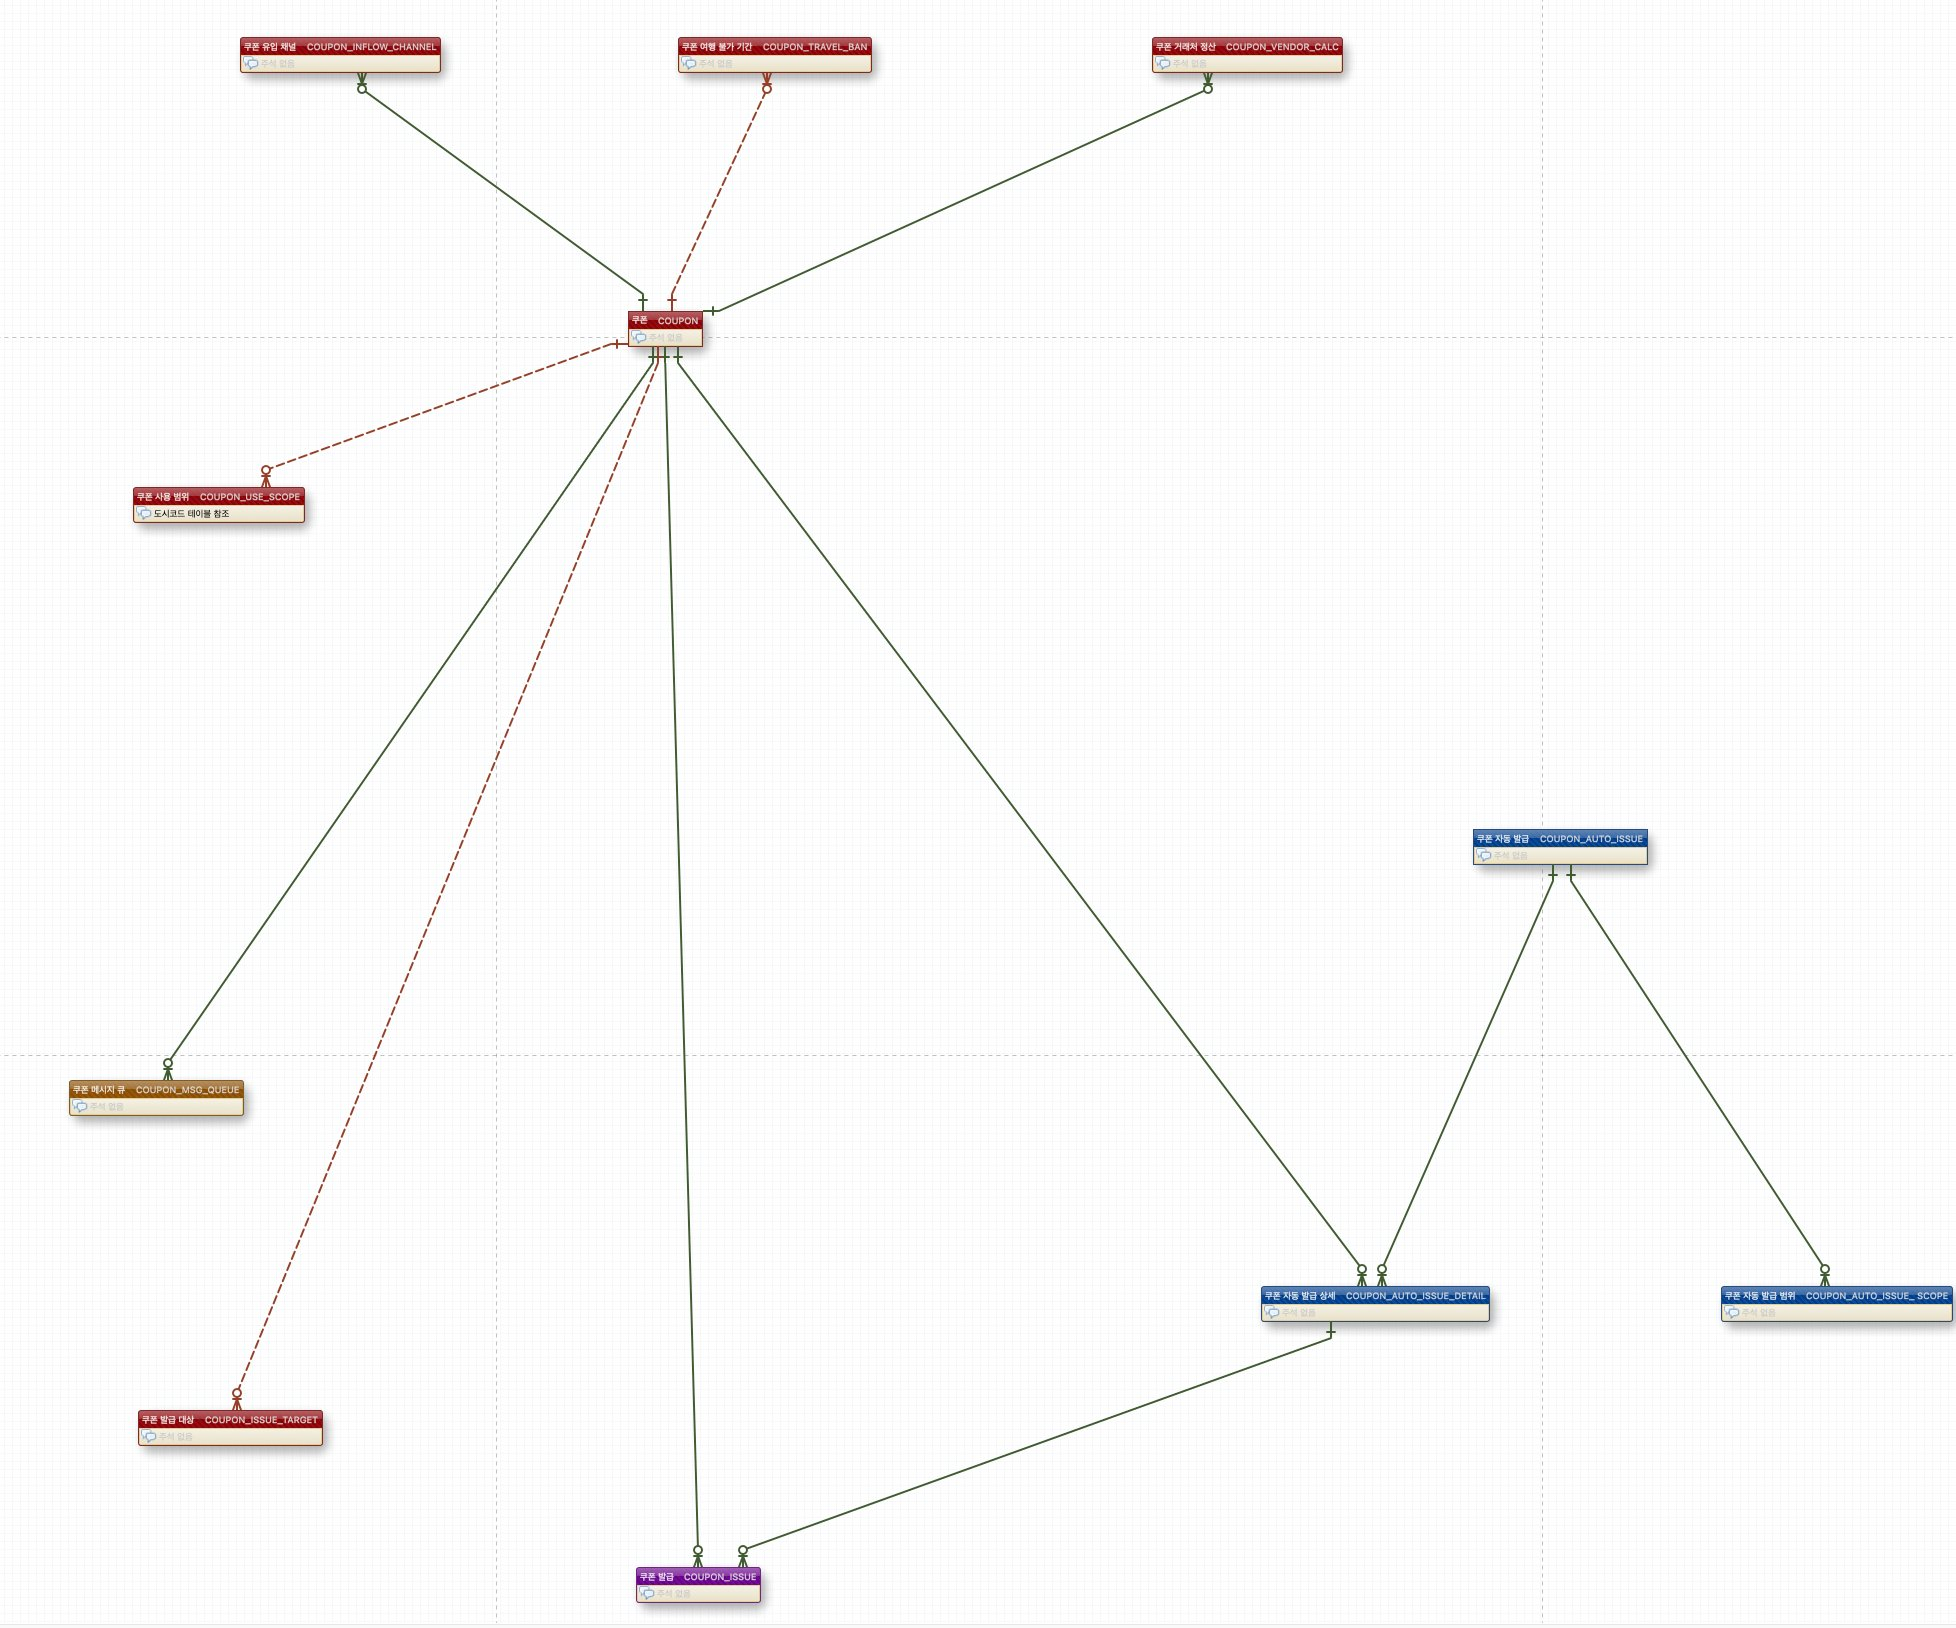
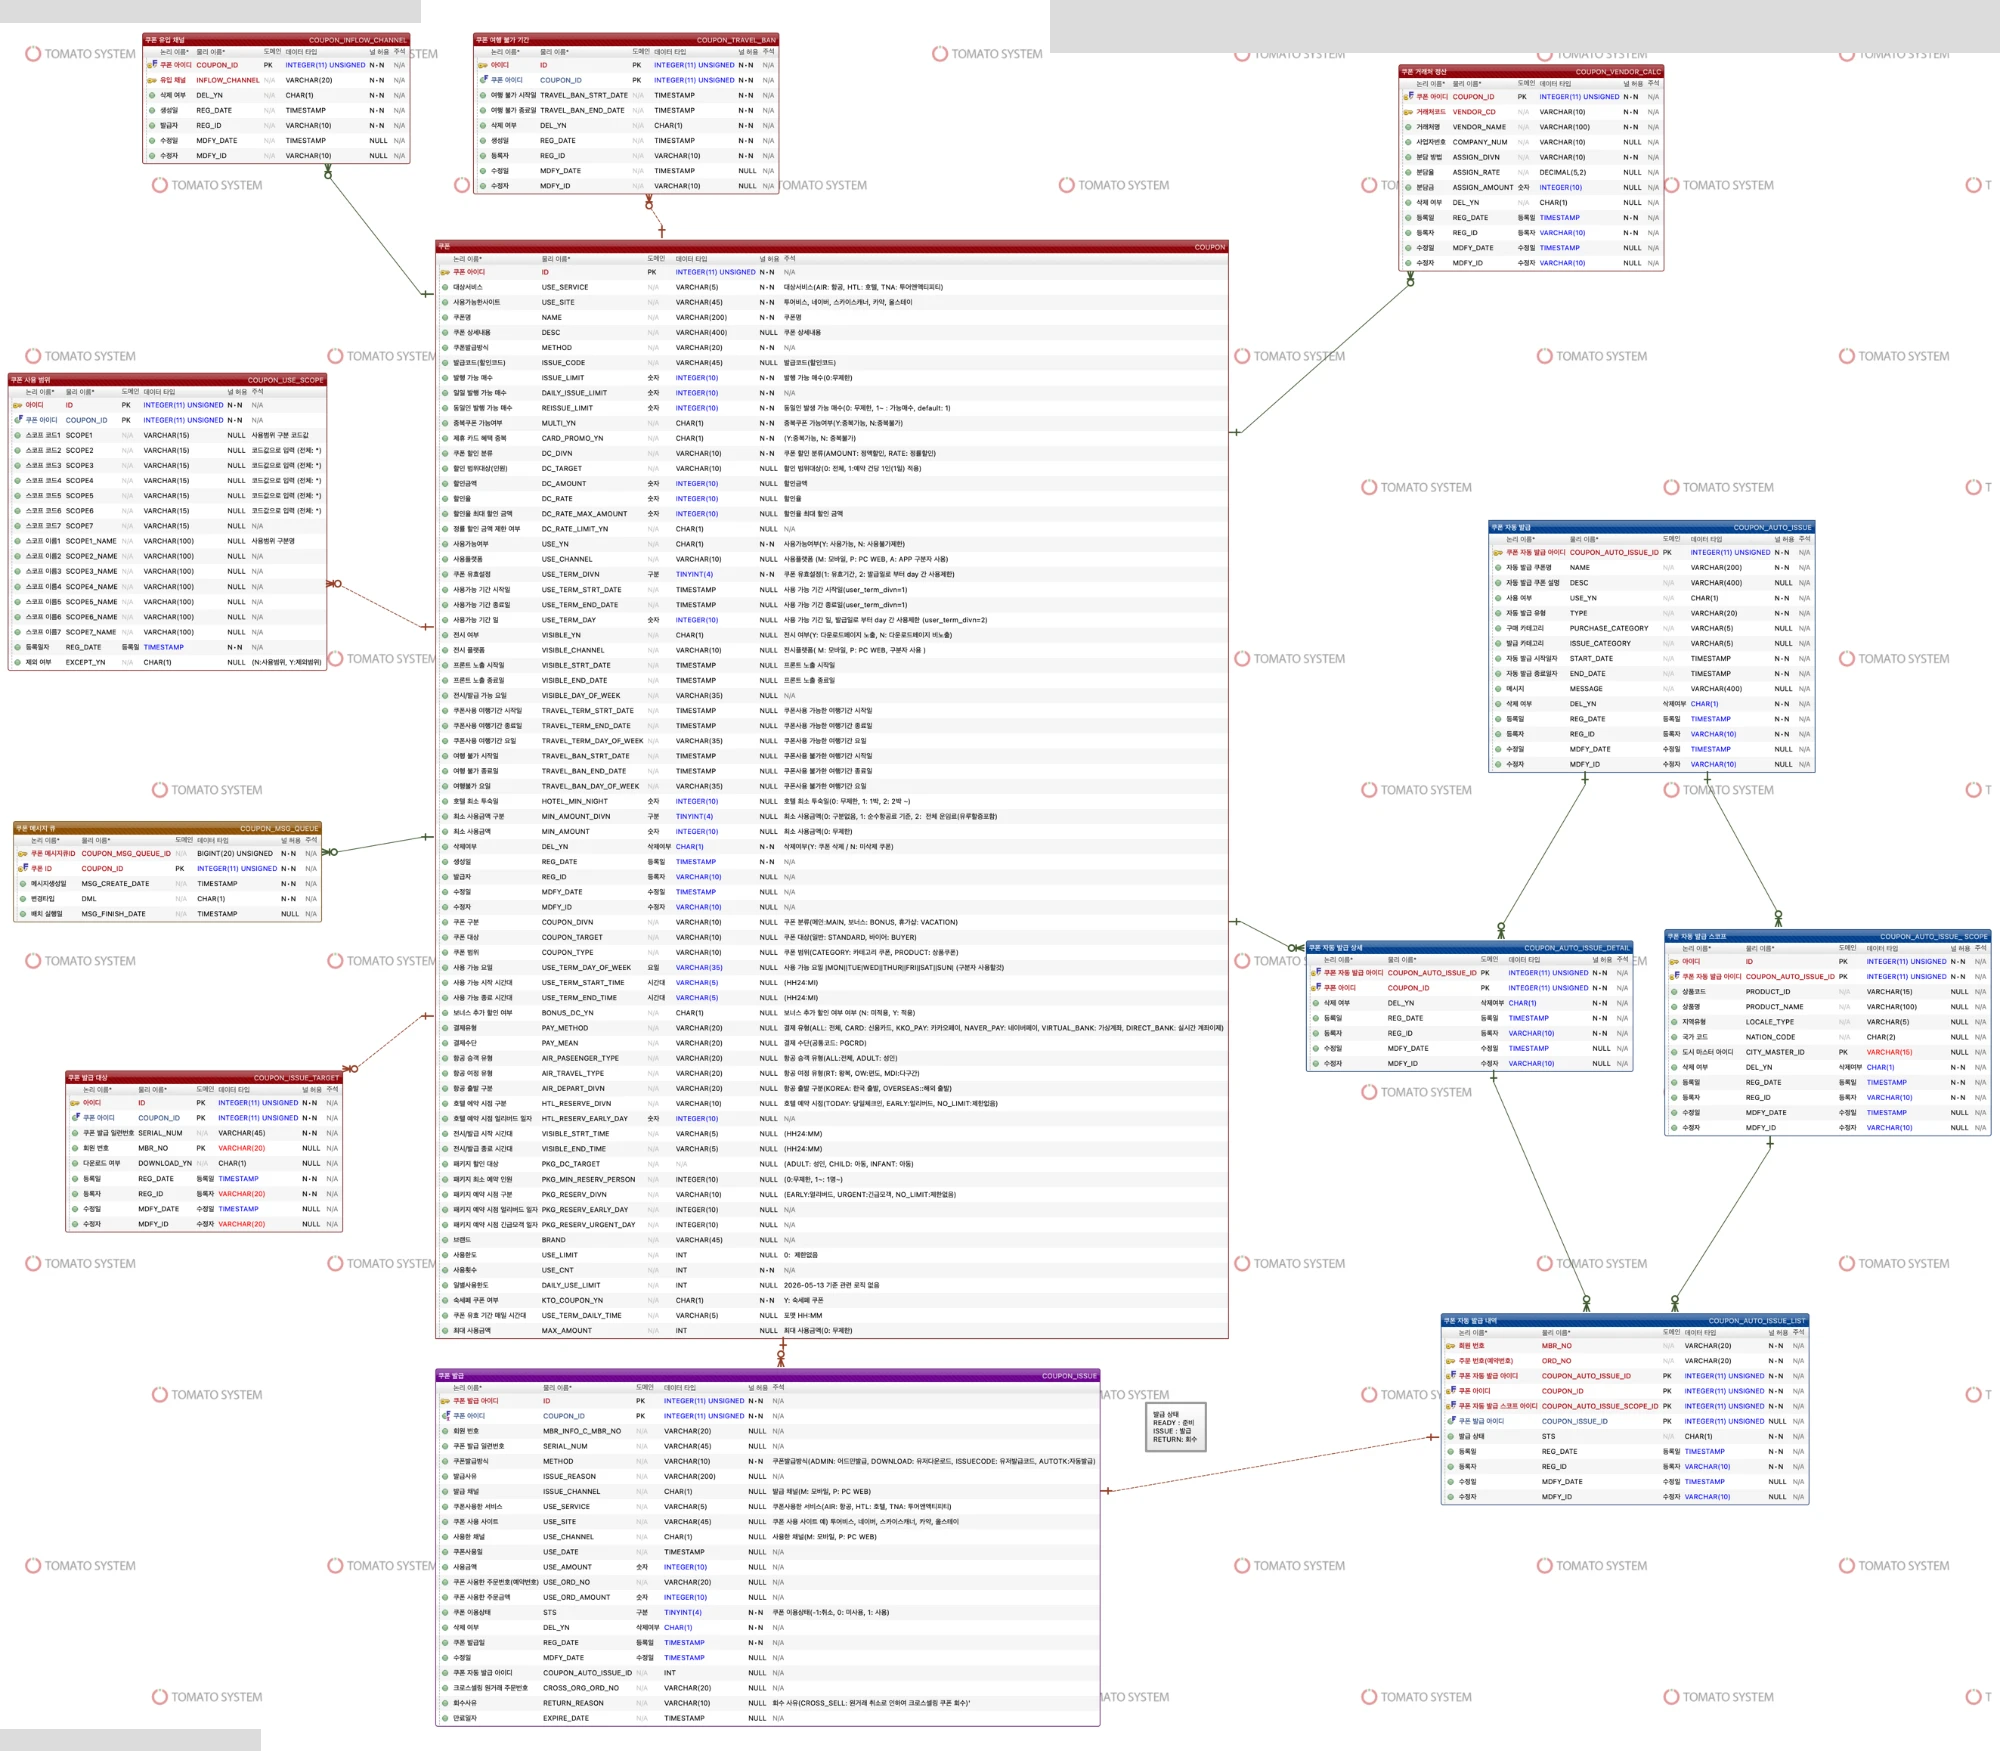
feat(case02): replace ERD + add payment flow, mask sensitive info
- coupon_erd.png: 상세 ERD로 교체, 툴 라이선스 경고·파일경로·날짜 마스킹
- payment_flow.png: 프론트 예약/결제 플로우 + BE 결제 시퀀스(통결·PG) 추가, 내부 메모 마스킹
- data.ts: Case 02 산출물 섹션 분리 (결제 플로우 / 쿠폰 v2)

diff --git a/src/lib/data.ts b/src/lib/data.ts
@@ -173,10 +173,17 @@ export const CASES: CaseStudy[] = [
       },
       {
         type: "images",
-        label: "산출물",
+        label: "예약/결제 플로우 설계",
+        items: [
+          { src: "/images/payment_flow.png", caption: "[프론트] 예약·결제 플로우 + [back-end] 서비스 FE → 서비스 API → 통결 FE → 통결 API → PG 시퀀스" },
+        ],
+      },
+      {
+        type: "images",
+        label: "쿠폰 v2 산출물",
         items: [
           { src: "/images/coupon_channel.png", caption: "쿠폰 채널 정책 매트릭스 (투어비스·베네피아·휴가샵·SKT·카이트)" },
-          { src: "/images/coupon_erd.png", caption: "쿠폰 v2 ERD — COUPON_INFLOW_CHANNEL 분리 구조" },
+          { src: "/images/coupon_erd.png", caption: "쿠폰 v2 ERD — COUPON_INFLOW_CHANNEL 분리 구조 (전체 테이블 관계)" },
         ],
       },
       {